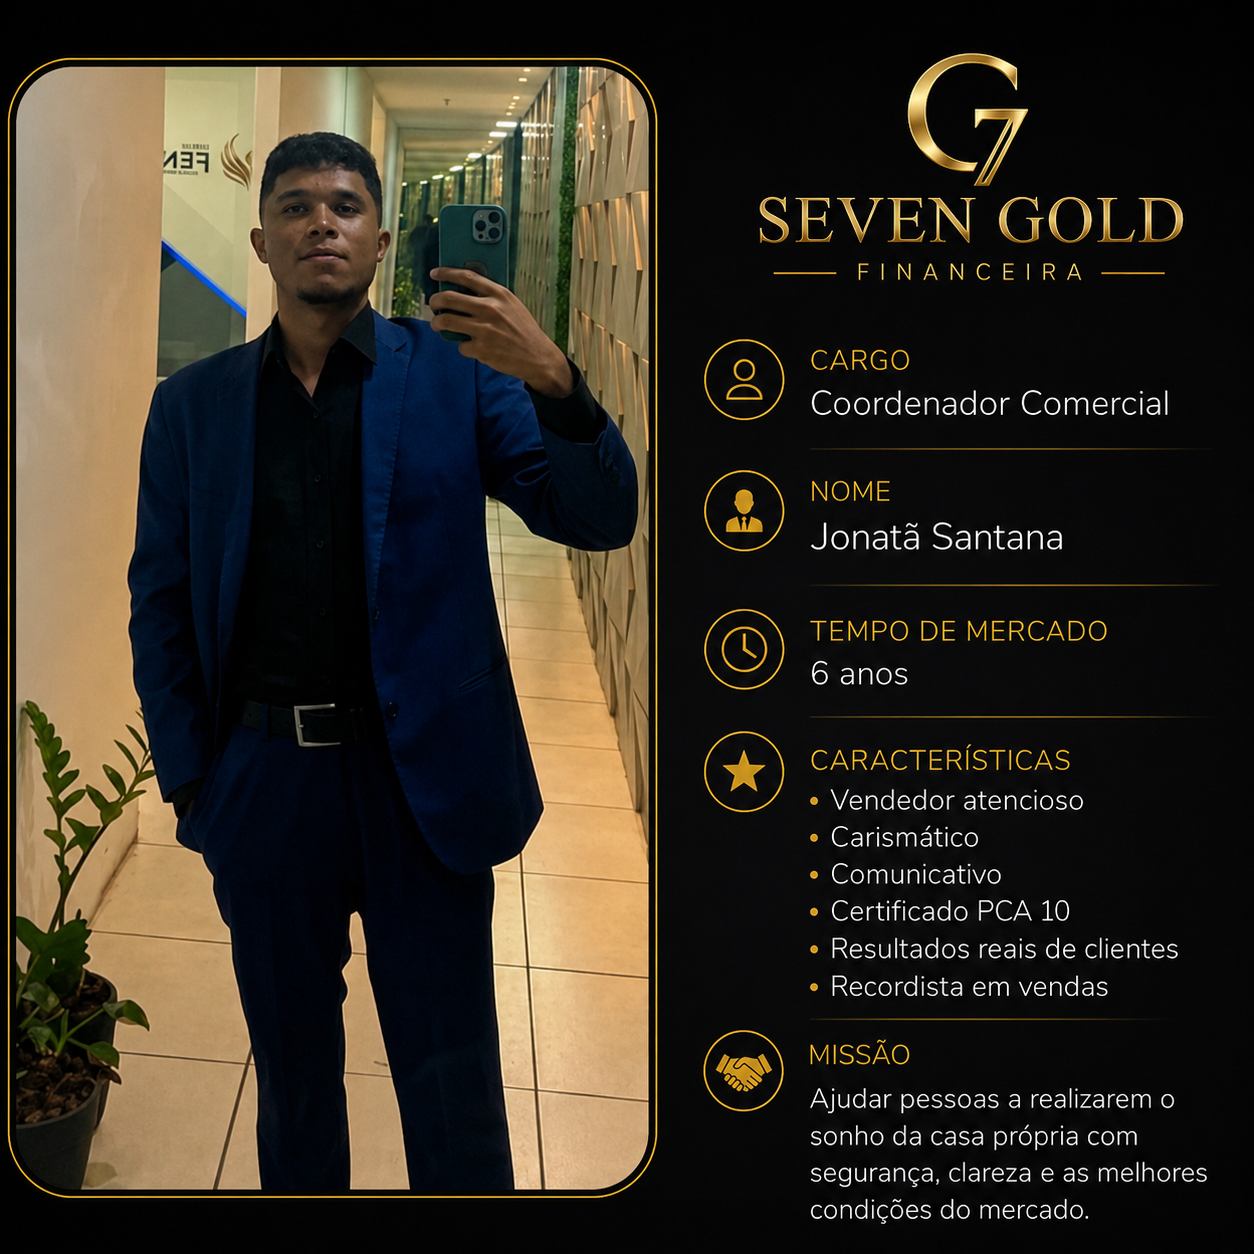
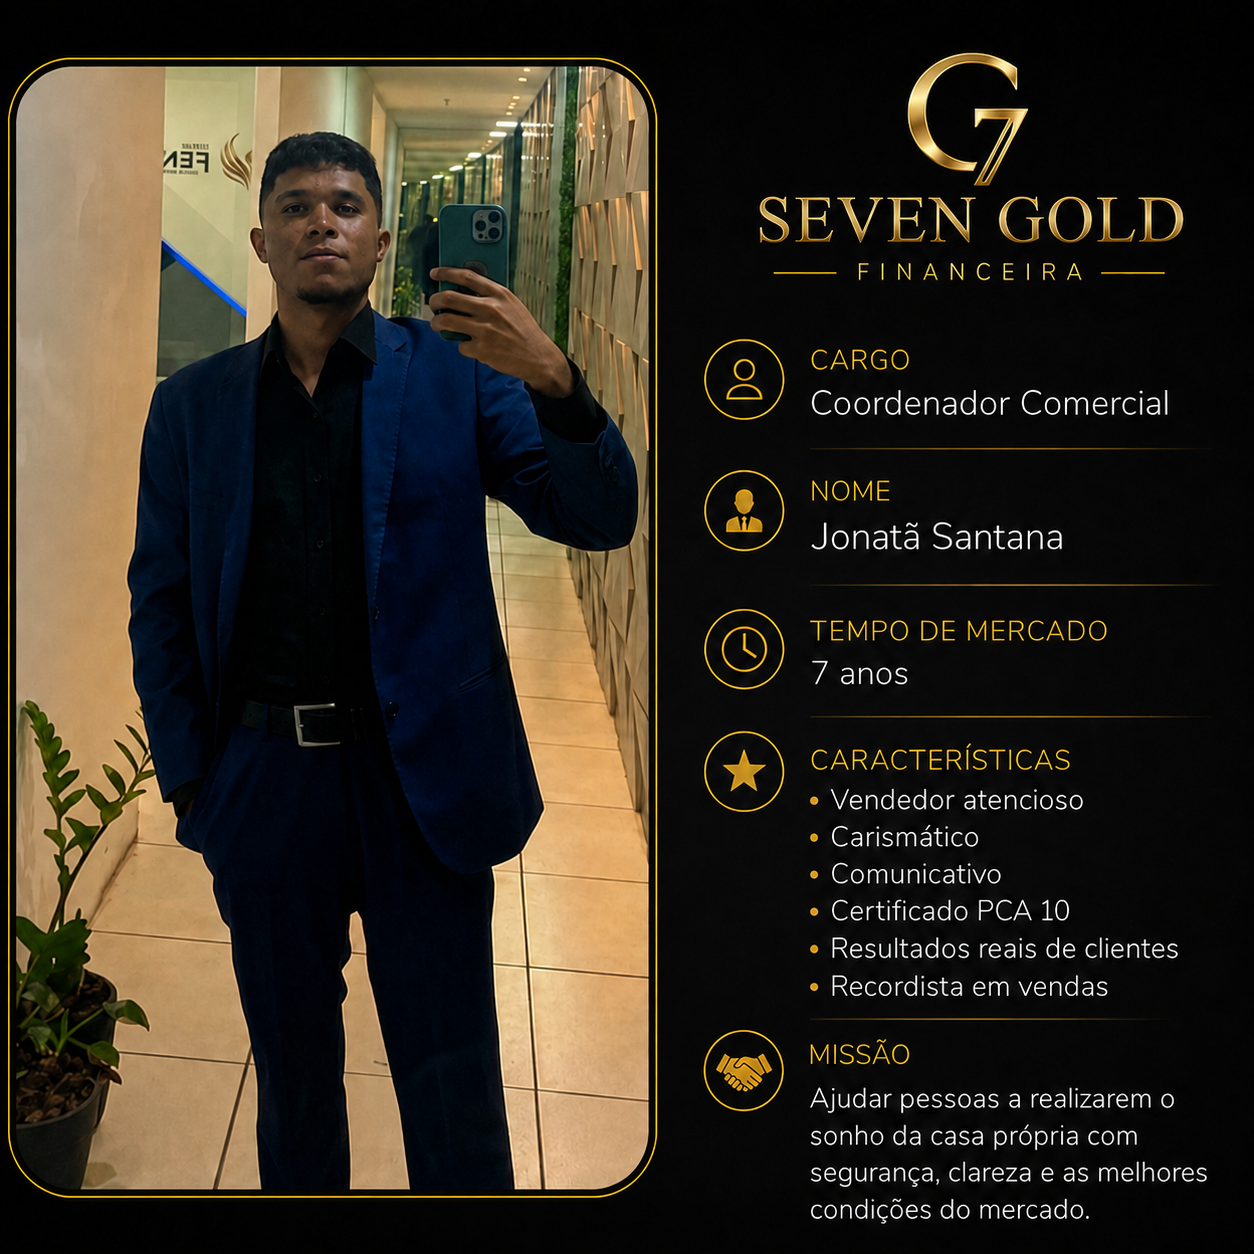
Atualiza card do Jonata para 7 anos (#39)

diff --git a/index.html b/index.html
@@ -80,7 +80,7 @@
         <button class="carousel-arrow carousel-prev" type="button" aria-label="Especialista anterior">‹</button>
         <div class="specialists-track" tabindex="0">
           <article class="specialist-card"><img src="assets/especialista-edivaldo-sobre-mim-20260821.png?v=20260821-2" alt="Apresentação profissional de Edivaldo Santana, Gerente Financeiro" /></article>
-          <article class="specialist-card"><img src="assets/especialista-jonata-sobre-mim-20260721.png" alt="Apresentação profissional de Jonatã Santana, Coordenador Comercial" /></article>
+          <article class="specialist-card"><img src="assets/especialista-jonata-sobre-mim-20260721.png?v=20260821-2" alt="Apresentação profissional de Jonatã Santana, Coordenador Comercial" /></article>
           <article class="specialist-card"><img src="assets/especialista-felipe-sobre-mim-20260721.jpg" alt="Apresentação profissional de Felipe Lobato, Diretor Comercial" /></article>
           <article class="specialist-card"><img src="assets/especialista-elainy-sobre-mim-20260721-v2.jpg" alt="Apresentação profissional de Elainy Martins, Consultora Financeira" /></article>
           <article class="specialist-card"><img src="assets/especialista-victor-sobre-mim-20260721.png" alt="Apresentação profissional de Victor Alves, Consultor Financeiro" /></article>
